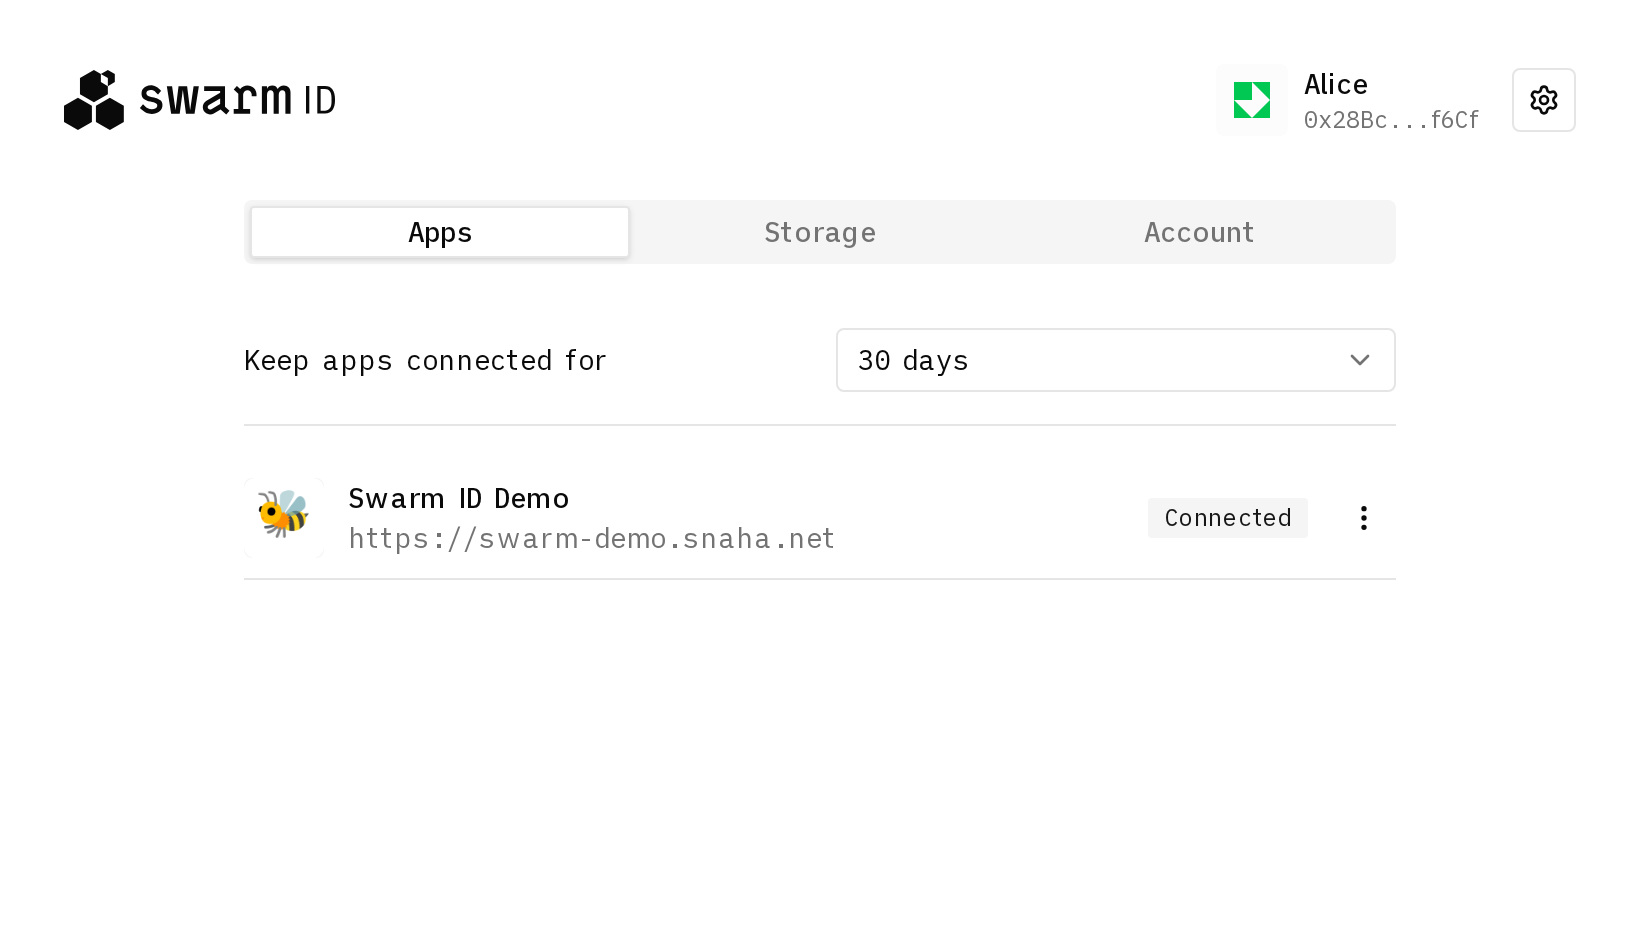
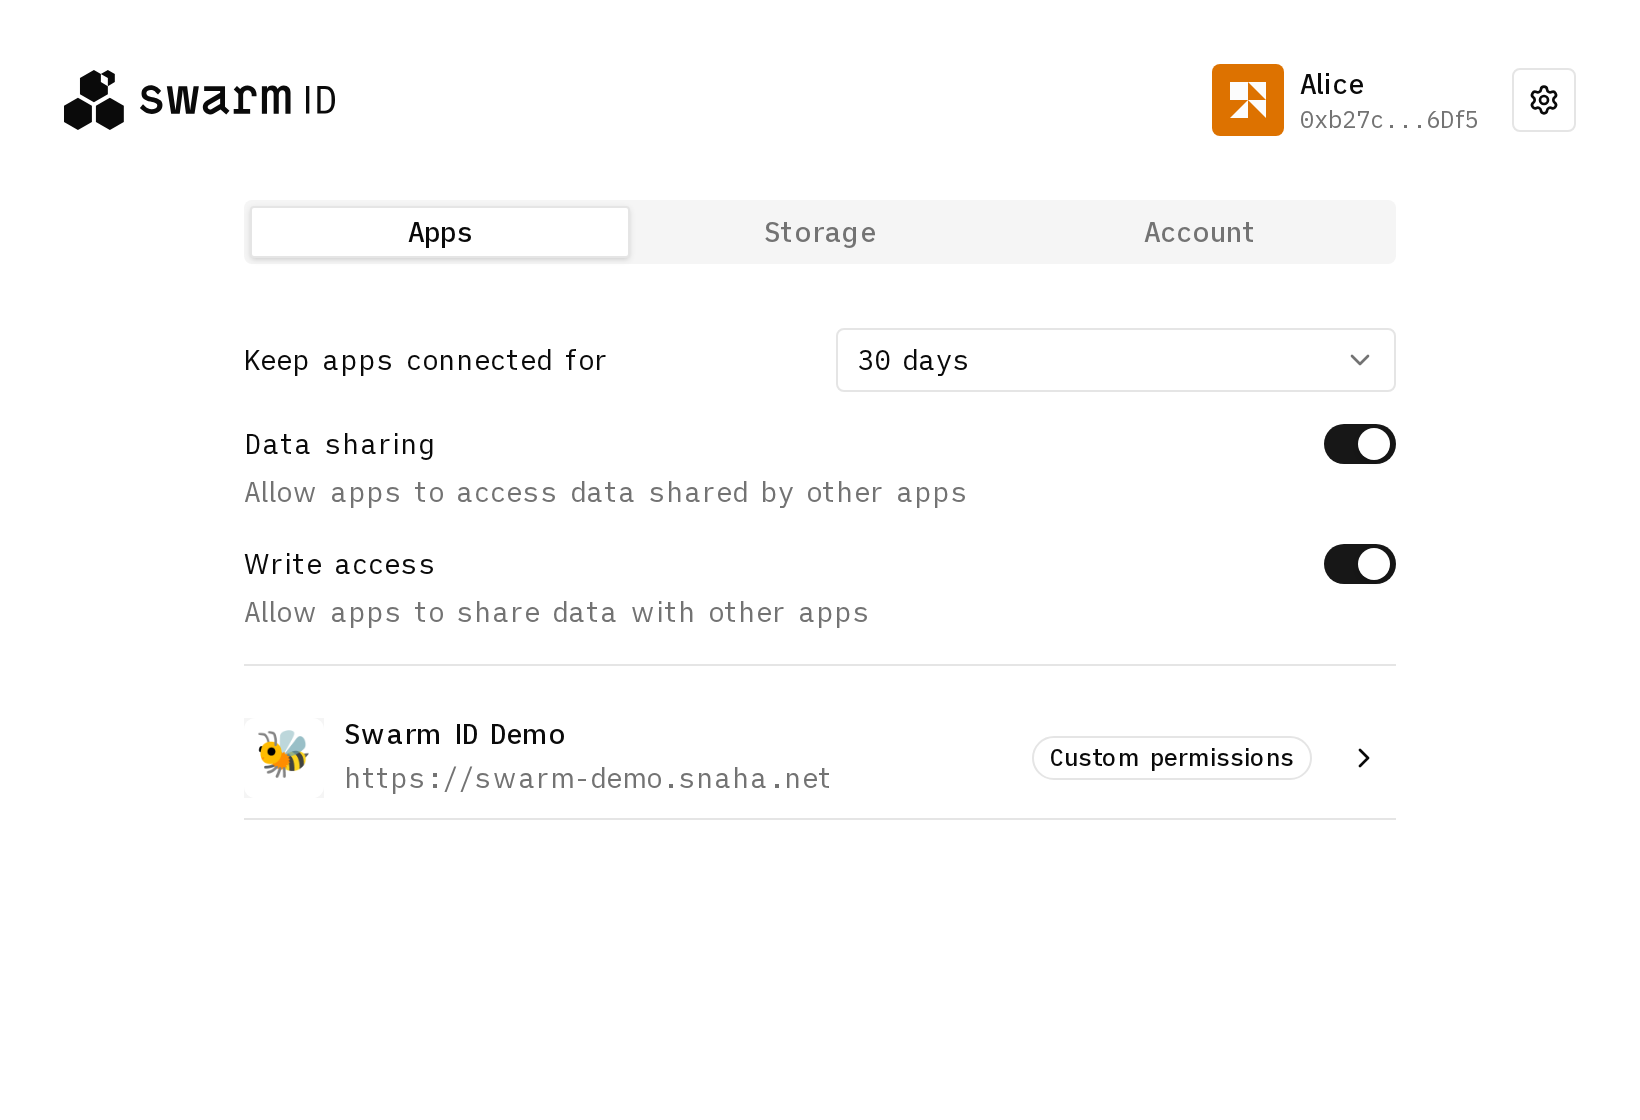
docs: Drives & Permissions, the quick start's share of it, and fresh screenshots
The Scratch Drives page becomes Drives & Permissions (the old address
redirects): the drive kinds and the default, what an app asks for at connect
and later, writing to a drive, the scratch-drive caveats, and the two sharing
switches — what they gate, the defaults and per-app pins, asking, checking and
being refused — with what the user sees in Swarm ID. The quick start gets a
drives-and-permissions section and the option; the Apps-tab screenshot is
retaken with the switches and Frame 31's rows, and two new ones show the
connect screen asking and the app's own page. The figure styles move out of
the Introduction into a shared stylesheet.

diff --git a/docs-site/src/styles/screenshots.css b/docs-site/src/styles/screenshots.css
@@ -1,0 +1,25 @@
+/* Copyright 2026 The Swarm Authors. All rights reserved. */
+/* SPDX-License-Identifier: Apache-2.0 */
+
+/* Screenshot figures, shared by the Introduction and Drives & Permissions pages. */
+.intro-shots {
+  display: grid;
+  grid-template-columns: 1fr;
+  gap: 1.5rem;
+}
+.intro-shots figure {
+  margin: 0;
+}
+.intro-wide {
+  margin-top: 1rem;
+}
+.intro-wide img,
+.intro-shots img {
+  border: 1px solid var(--sl-color-hairline);
+  border-radius: 0.5rem;
+}
+.intro-shots figcaption {
+  font-size: var(--sl-text-sm);
+  color: var(--sl-color-gray-2);
+  margin-top: 0.5rem;
+}
